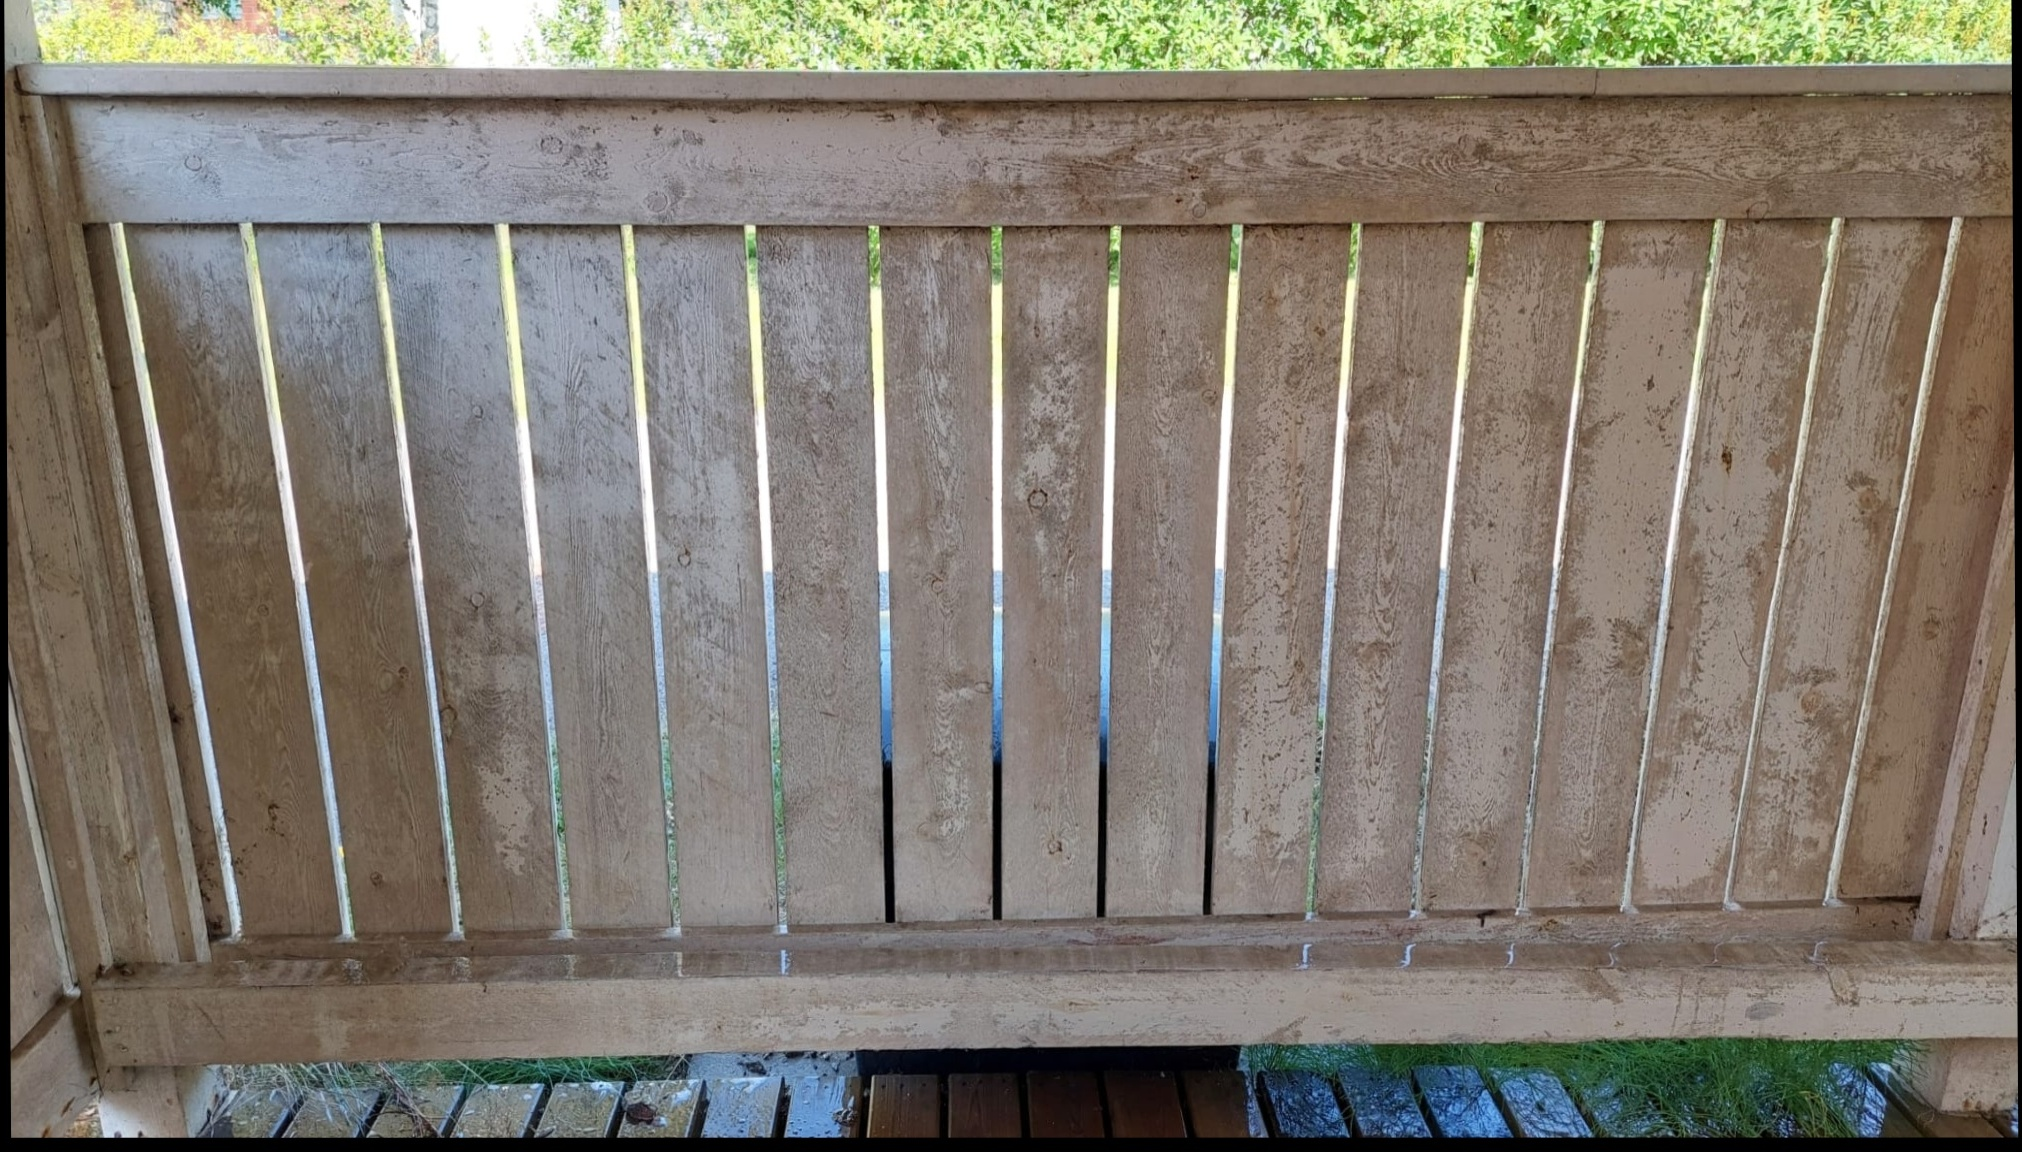
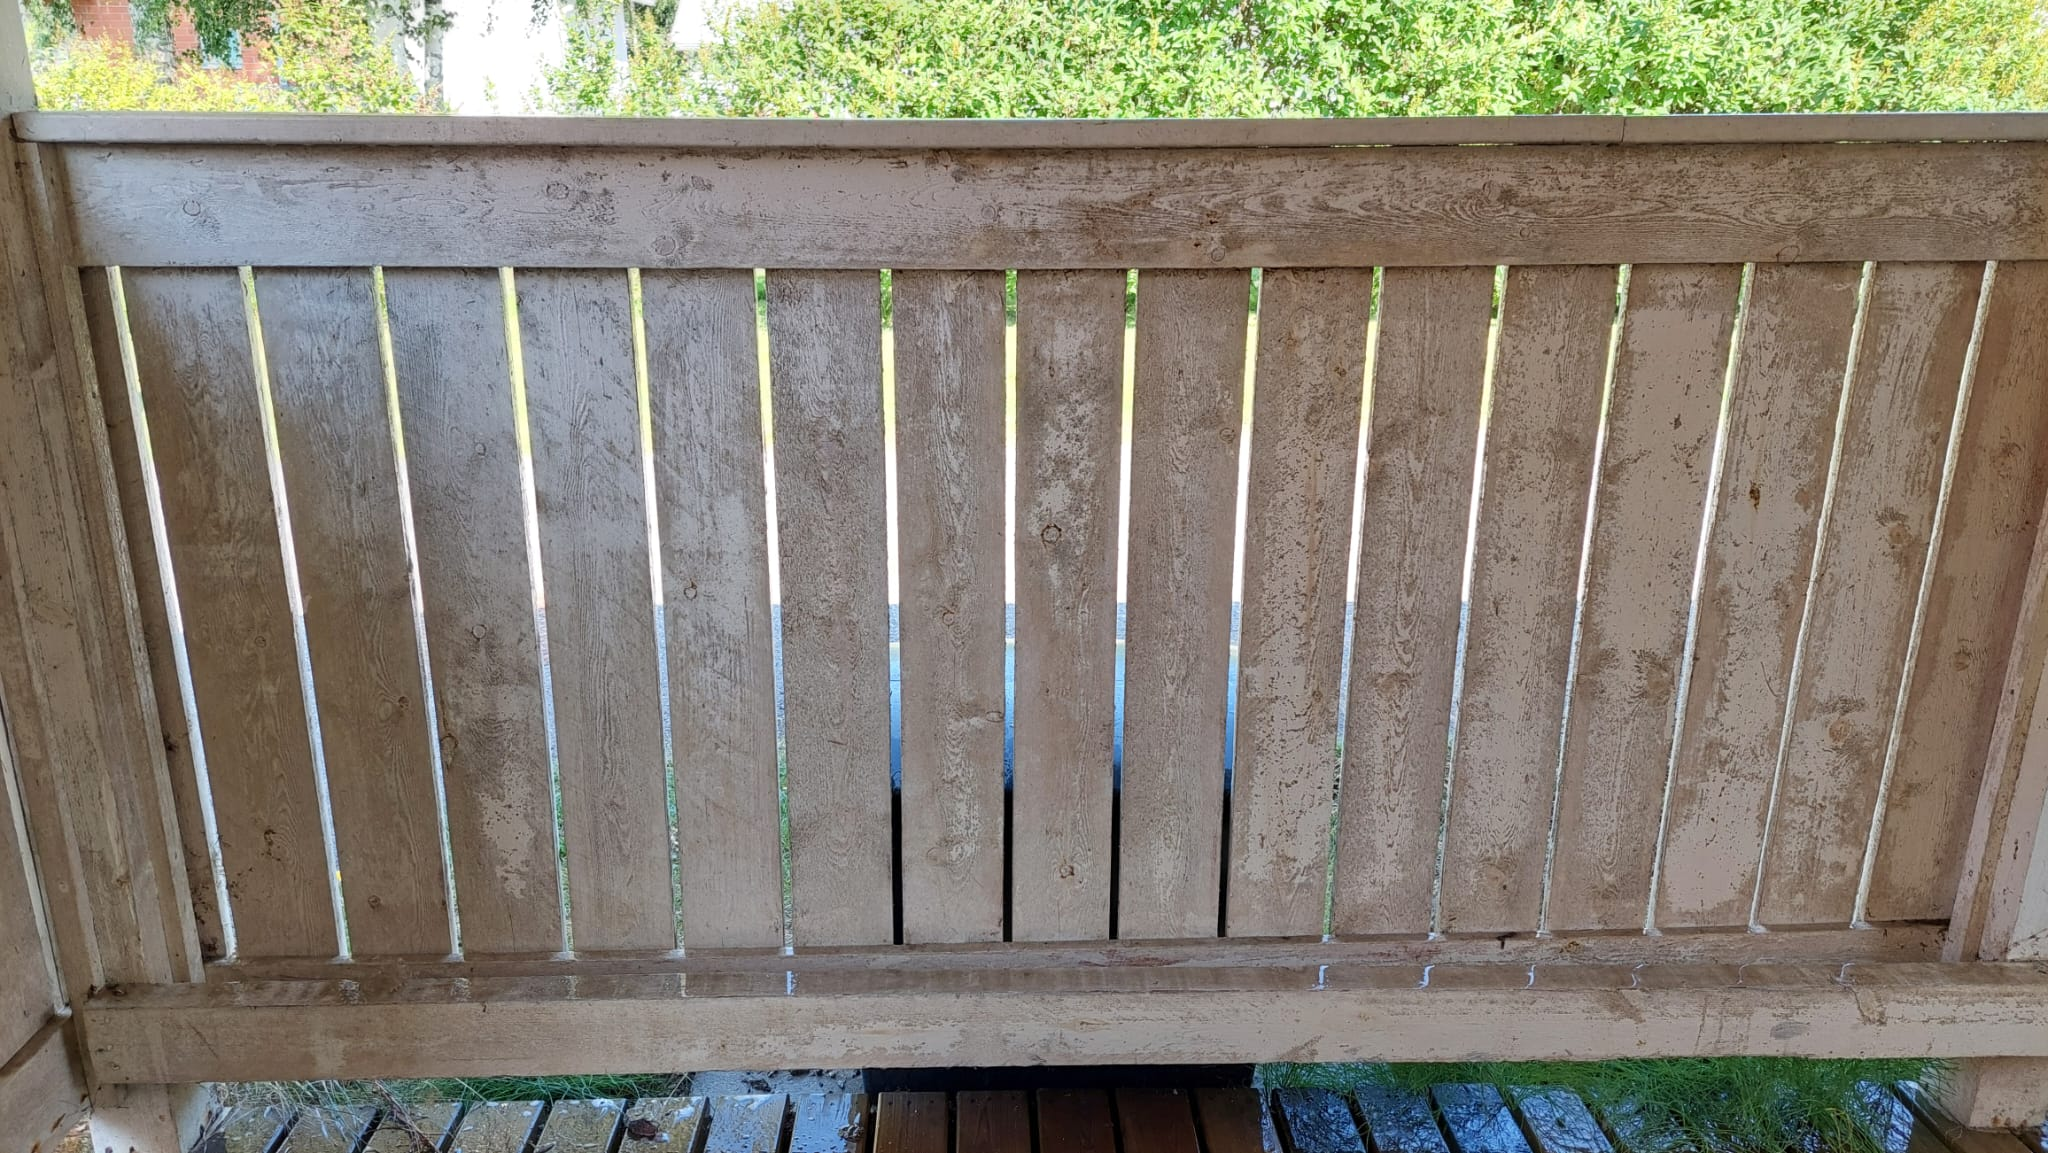
Palautettu alkuperäiset aita-kuvat ja CSS-asetukset

diff --git a/styles.css b/styles.css
@@ -91,7 +91,7 @@ body { font-family: 'Segoe UI', Tahoma, Geneva, sans-serif; line-height: 1.6; co
 .carousel-slider-item.active { display: block; }
 .before-after-slider { position: relative; width: 100%; aspect-ratio: 4 / 3; overflow: hidden; border-radius: 12px; box-shadow: 0 4px 15px rgba(255, 140, 0, 0.12); cursor: grab; user-select: none; background: #f0f0f0; touch-action: none; }
 .before-after-slider:active { cursor: grabbing; }
-.img-before, .img-after { position: absolute; top: 0; left: 0; width: 100%; height: 100%; object-fit: cover; object-position: center center; pointer-events: none; }
+.img-before, .img-after { position: absolute; top: 0; left: 0; width: 100%; height: 100%; object-fit: contain; pointer-events: none; }
 .img-before { z-index: 1; }
 .img-after { z-index: 2; }
 .slider-divider { position: absolute; top: 0; left: 50%; width: 3px; height: 100%; background: #FF8C00; z-index: 3; pointer-events: none; transform: translateX(-50%); transition: left 0.05s ease-out; }
@@ -263,4 +263,3 @@ body.menu-open { overflow: hidden; }
     .team-member img { width: 100px; height: 100px; }
     .slider-carousel-wrapper { padding: 0 40px; }
 }
-
